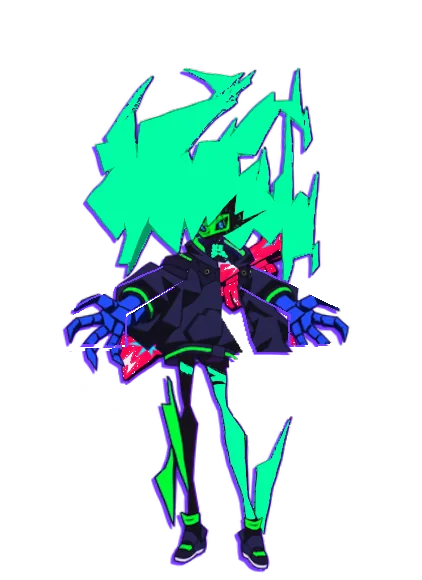
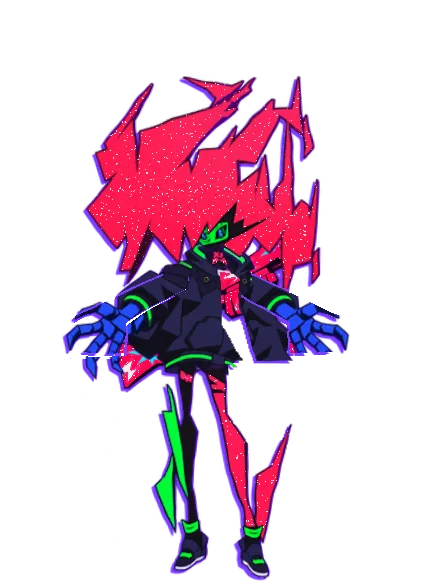
Vestuario: sus colores ya no se cambian (sin pestaña Colores)
La melena y la máscara de Capri se quedan siempre con sus colores. El vestuario queda en tres
pestañas (Conjuntos, Accesorios, Efectos); las fotos del desfile en Ajustes y las notas de los 5
idiomas ya no mencionan colores.

Changed region(s): [[0.1232, 0.0931, 0.8318, 0.9931]]

diff --git a/app/src/main/assets/android/wardrobe.js b/app/src/main/assets/android/wardrobe.js
@@ -1,7 +1,7 @@
 // Her wardrobe: what you put on her. Outfits (a whole drawing of her in other clothes, in the same
 // pose, so she moves in them as she does in her own), things on top (a crown, cat ears, glasses, a
-// halo…), the colors of her mane and her mask, an aura, how see-through she is. Easy to use: one
-// sheet, four tabs, a tap puts it on her and a second tap takes it off. Opened from her quick menu
+// halo…), an aura, how see-through she is. Her own colors (her mane, her mask) are hers: they
+// don't change. Easy to use: one sheet, three tabs, a tap puts it on her and a second tap takes it off. Opened from her quick menu
 // (holding her) and from her menu.
 //
 // It all goes into her picture itself (the texture her shader draws, capri-full.png's 240x420), so
@@ -106,16 +106,6 @@ const PLACE = {
   sword: { at: [118, 196], w: 150, behind: true }, shotgun: { at: [118, 196], w: 150, behind: true },
 };
 
-// her mane's and her mask's colors: a hue (0..1), or a gray
-const MANES = [
-  ['default', null, '#fc0346'], ['violet', 0.76, '#8a3cff'], ['blue', 0.62, '#2a5bff'], ['cyan', 0.5, '#00e5ff'],
-  ['gold', 0.12, '#ffc21a'], ['green', 0.36, '#1fe36a'], ['silver', 'gray', '#d7d7e3'], ['shadow', 'dark', '#2a2236'],
-  // (Edgerunners: Rebecca's mint, Talia's pastel pink)
-  ['mint', 0.44, '#7df5c8'], ['pink', 0.84, '#ff4fc0'], // (her shader pulls any red toward her own: 0.84 ends up pink)
-];
-const MASKS = [
-  ['default', null, '#08f467'], ['cyan', 0.5, '#00e5ff'], ['violet', 0.76, '#8a3cff'], ['gold', 0.12, '#ffc21a'], ['white', 'gray', '#f2f2f7'], ['red', 0.98, '#ff1744'],
-];
 const AURAS = [['none', null], ['red', '#ff1744'], ['green', '#08f467'], ['cyan', '#00e5ff'], ['violet', '#8a3cff'], ['gold', '#ffc21a'], ['white', '#ffffff'], ['sandevistan', 'trail']];
 // the Sandevistan's afterimages (Edgerunners): copies of her trailing behind, green to violet
 const TRAIL = (dir) => [['#08f467', 0.55], ['#00e5ff', 0.4], ['#8a3cff', 0.28]].map(([c, a], i) => `drop-shadow(${-dir * 7 * (i + 1)}px 0 0 ${c}${Math.round(a * 255).toString(16).padStart(2, '0')})`).join(' ');
@@ -284,45 +274,6 @@ function loadImage(src) {
   });
 }
 
-const rgb2hsv = (r, g, b) => {
-  const max = Math.max(r, g, b), min = Math.min(r, g, b), d = max - min;
-  let h = 0;
-  if (d) h = max === r ? ((g - b) / d) % 6 : max === g ? (b - r) / d + 2 : (r - g) / d + 4;
-  return [(h / 6 + 1) % 1, max ? d / max : 0, max];
-};
-const hsv2rgb = (h, s, v) => {
-  const f = (n) => {
-    const k = (n + h * 6) % 6;
-    return v - v * s * Math.max(0, Math.min(k, 4 - k, 1));
-  };
-  return [f(5), f(3), f(1)];
-};
-// her mane (crimson to red) and her mask (green) to other colors, already as bright as her shader
-// makes her red and her green (it only brightens those two)
-function recolor(g, w, h, mane, mask) {
-  if (mane == null && mask == null) return;
-  const img = g.getImageData(0, 0, w, h);
-  const d = img.data;
-  for (let i = 0; i < d.length; i += 4) {
-    if (d[i + 3] < 8) continue;
-    const [hu, s, v] = rgb2hsv(d[i] / 255, d[i + 1] / 255, d[i + 2] / 255);
-    if (v < 0.1 || s < 0.06) continue;
-    const hx = hu < 0.5 ? hu + 1 : hu;
-    const isRed = hx > 0.78 && hx < 1.1;
-    const isGreen = hu > 0.22 && hu < 0.52 && s > 0.15;
-    const to = isRed ? mane : isGreen ? mask : undefined;
-    if (to == null) continue;
-    let out;
-    if (to === 'gray') out = hsv2rgb(0, 0, Math.min(1, v * 1.6 + 0.15));
-    else if (to === 'dark') out = hsv2rgb(0.75, 0.35, Math.min(1, v * 0.55 + 0.05));
-    else out = hsv2rgb(to, Math.max(s, 0.86), Math.min(1, v * 1.5 + 0.1));
-    d[i] = out[0] * 255;
-    d[i + 1] = out[1] * 255;
-    d[i + 2] = out[2] * 255;
-  }
-  g.putImageData(img, 0, 0);
-}
-
 export function wardrobe({ cfg, setConfig, onToggle }) {
   const dev = window.dev;
   const capri = dev?.capri;
@@ -331,7 +282,7 @@ export function wardrobe({ cfg, setConfig, onToggle }) {
   const have = {}; // drawings that are in: { 'outfit-jinete': Image, 'acc-crown': Image }
   const lang = () => (WORDS[dev.brain?.lang] ? dev.brain.lang : 'en');
   const t = () => WORDS[lang()];
-  const look = () => ({ outfit: 'default', things: [], mane: 'default', mask: 'default', aura: 'none', alpha: 1, gamerAlpha: 0.55, ...(cfg().look || {}) });
+  const look = () => ({ outfit: 'default', things: [], aura: 'none', alpha: 1, gamerAlpha: 0.55, ...(cfg().look || {}), mane: 'default', mask: 'default' }); // (her colors don't change)
   const unlocked = () => new Set(cfg().unlocked || []);
 
   // which drawings are in (once)
@@ -354,7 +305,6 @@ export function wardrobe({ cfg, setConfig, onToggle }) {
       const g = c.getContext('2d', { willReadFrequently: true });
       g.drawImage(base, 0, 0, w, h);
       if (base !== original) g.clearRect(220, 0, w - 220, h); // (nothing of an outfit past her cut-out)
-      recolor(g, w, h, MANES.find(([id]) => id === l.mane)?.[1] ?? null, MASKS.find(([id]) => id === l.mask)?.[1] ?? null);
       // behind her face first (veil), then the rest
       const order = ['veil', ...ACCESSORIES.map(([id]) => id).filter((id) => id !== 'veil')];
       for (const id of order) {
@@ -496,7 +446,7 @@ export function wardrobe({ cfg, setConfig, onToggle }) {
 
     const tabs = document.createElement('nav');
     tabs.className = 'wardrobe__tabs';
-    for (const [id, label] of [['outfits', w.outfits], ['things', w.things], ['colors', w.colors], ['effects', w.effects]]) {
+    for (const [id, label] of [['outfits', w.outfits], ['things', w.things], ['effects', w.effects]]) {
       const b = document.createElement('button');
       b.type = 'button';
       b.className = 'wardrobe__tab';
@@ -578,11 +528,6 @@ export function wardrobe({ cfg, setConfig, onToggle }) {
           click: () => { toggleThing(id); render(); },
         }));
       }
-    } else if (tab === 'colors') {
-      const g1 = grid(w.mane);
-      for (const [id, , swatch] of MANES) g1.append(tile({ label: '', on: l.mane === id, swatch, click: () => { set({ mane: id }); render(); } }));
-      const g2 = grid(w.mask);
-      for (const [id, , swatch] of MASKS) g2.append(tile({ label: '', on: l.mask === id, swatch, click: () => { set({ mask: id }); render(); } }));
     } else {
       const g1 = grid(w.aura);
       for (const [id, color] of AURAS) {
@@ -597,7 +542,7 @@ export function wardrobe({ cfg, setConfig, onToggle }) {
       reset.type = 'button';
       reset.className = 'wardrobe__reset';
       reset.textContent = w.reset;
-      reset.addEventListener('click', () => { set({ outfit: 'default', things: [], mane: 'default', mask: 'default', aura: 'none', alpha: 1 }); render(); });
+      reset.addEventListener('click', () => { set({ outfit: 'default', things: [], aura: 'none', alpha: 1 }); render(); });
       body.append(reset);
     }
     el.append(body);
@@ -646,7 +591,7 @@ export function wardrobe({ cfg, setConfig, onToggle }) {
 
   // what you put on her last time (nothing to redo when she's as she is)
   const l0 = look();
-  if (l0.outfit !== 'default' || l0.things.length || l0.mane !== 'default' || l0.mask !== 'default') apply();
+  if (l0.outfit !== 'default' || l0.things.length) apply();
   else style();
   return {
     open, close, apply, style,
@@ -660,19 +605,8 @@ export function wardrobe({ cfg, setConfig, onToggle }) {
     wear(patch) { set(patch); },
     look,
     has: (id) => Boolean(have[id]),
-    // a drawing of her (poses.js) in her mane's and her mask's colors: a canvas, or null as she is
-    paint(img) {
-      const l = look();
-      const mane = MANES.find(([id]) => id === l.mane)?.[1] ?? null, mask = MASKS.find(([id]) => id === l.mask)?.[1] ?? null;
-      if (mane == null && mask == null) return null;
-      const c = document.createElement('canvas');
-      c.width = img.naturalWidth;
-      c.height = img.naturalHeight;
-      const g = c.getContext('2d', { willReadFrequently: true });
-      g.drawImage(img, 0, 0);
-      recolor(g, c.width, c.height, mane, mask);
-      return c;
-    },
+    // a drawing of her (poses.js) as she is: her colors are her own
+    paint: () => null,
     ready: () => probing,
     FACES,
   };

diff --git a/app/src/main/assets/android/poses.js b/app/src/main/assets/android/poses.js
@@ -82,7 +82,7 @@ export function poses({ cfg, wardrobe }) {
     Object.assign(el.style, { left: `${x}px`, top: `${y}px`, width: `${w}px`, height: `${h}px`, transform: flip ? 'scaleX(-1)' : '' });
   }
 
-  // her colors (a recolored mane or mask), her aura and how see-through she is, as on her sprite
+  // her aura and how see-through she is, as on her sprite
   function dress(el, img) {
     const sprite = document.getElementById('sprite');
     el.style.filter = sprite?.style.filter || '';

diff --git a/app/src/main/assets/android/android.css b/app/src/main/assets/android/android.css
@@ -556,7 +556,7 @@ body.is-dressing .fx { z-index: 41; }
 
 .wardrobe__tabs {
   display: grid;
-  grid-template-columns: repeat(4, 1fr);
+  grid-template-columns: repeat(3, 1fr);
   border-top: 1px solid var(--line);
   border-bottom: 1px solid var(--line);
 }

diff --git a/changelog/ru.md b/changelog/ru.md
@@ -7,14 +7,13 @@
 - **Её гардероб:** новая кнопка *Наряды* в быстром меню (а ещё *Настройки → Гардероб* или скажи «Капри, переоденься»).
   12 полных нарядов: жокей Запада, школьная форма, пилот меха, охотница на демонов, ниндзя, нетраннер, жёлтая куртка,
   готика, юката, пижама, ведьма и Рождество. 25 аксессуаров, которые можно сочетать (корона, кошачьи ушки,
-  рожки, нимб, ковбойская шляпа, новогодняя шапка, наушники, очки, визор, шарф, катана, геймпад, шарик-сердце…), цвет
-  её волос и маски, аура и прозрачность. Пока ты её одеваешь, она встаёт на панель, и каждое
+  рожки, нимб, ковбойская шляпа, новогодняя шапка, наушники, очки, визор, шарф, катана, геймпад, шарик-сердце…), аура и прозрачность. Пока ты её одеваешь, она встаёт на панель, и каждое
   изменение видно сразу; она двигается во всём этом, и всё сохраняется. В *Настройках* приложения есть его
   презентация с кнопкой, чтобы открыть.
 - **Cyberpunk: Edgerunners:** Капри — героиня второго сезона, поэтому в гардеробе есть раздел сериала: наряды по
   мотивам обоих сезонов (Дэвид, Люси, Ребекка, Мэйн, Дорио, Киви, Пилар, Фалько, Фарадей, Адам Смэшер, Глория, Саша,
   Д., Талия Ян, Кингсли, Роман Каракс, Авида и Кёко), аксессуары из сериала (крестик Дэвида, маска Киви, мононить
-  Люси, рюкзак Романа), мятный и розовый цвет волос и эффект **Сандевистан**: зелёные, голубые и фиолетовые
+  Люси, рюкзак Романа) и эффект **Сандевистан**: зелёные, голубые и фиолетовые
   остаточные образы позади неё.
 - **Удобнее режим геймера:** когда ты его включаешь, она ложится на живот поверх экрана и болтает ногами, глядя, как
   ты играешь, а ещё её можно сделать полупрозрачной только на время игры (*Гардероб → Эффекты*). Коснись её — и она

diff --git a/changelog/fr.md b/changelog/fr.md
@@ -8,15 +8,15 @@ Le même que CHANGELOG.md (en espagnol, l’original), en français : l’appli 
   disant « Capri, habille-toi »). 12 tenues complètes : jockey de l’Ouest, uniforme scolaire, pilote de mecha,
   chasseuse de démons, ninja, netrunner, veste jaune, gothique, yukata, pyjama, sorcière et Noël. 25
   accessoires à combiner (couronne, oreilles de chat, cornes, auréole, chapeau de cowboy, bonnet de Noël, casque,
-  lunettes, visière, écharpe, katana, manette, ballon cœur…), la couleur de ses cheveux et de son masque, une aura et
+  lunettes, visière, écharpe, katana, manette, ballon cœur…), une aura et
   sa transparence. Pendant que tu l’habilles, elle monte sur le panneau pour que tu voies chaque
   changement sur elle ; elle bouge avec tout ça et c’est enregistré. Les *Réglages* de l’app la présentent, avec un
   bouton pour l’ouvrir.
 - **Cyberpunk: Edgerunners :** Capri vient de la deuxième saison, alors la garde-robe a sa section de la série, avec
   des tenues inspirées des deux saisons (David, Lucy, Rebecca, Maine, Dorio, Kiwi, Pilar, Falco, Faraday, Adam
   Smasher, Gloria, Sasha, D., Talia Yang, Kingsley, Roman Carax, Avida et Kyoko), des accessoires de la série (la
-  croix de David, le masque de Kiwi, le monofil de Lucy, le sac de Roman), des couleurs de crinière menthe et
-  rose et l’effet **Sandevistan** : des images rémanentes vertes, cyan et violettes derrière elle.
+  croix de David, le masque de Kiwi, le monofil de Lucy, le sac de Roman) et
+  l’effet **Sandevistan** : des images rémanentes vertes, cyan et violettes derrière elle.
 - **Un mode gamer plus confortable :** quand tu l’actives, elle s’allonge sur le ventre en haut de ton écran et bat
   des jambes en te regardant jouer, et tu peux la rendre semi-transparente seulement pendant que tu joues (*Garde-robe
   → Effets*). Touche-la et elle se relève.

diff --git a/changelog/en.md b/changelog/en.md
@@ -7,13 +7,12 @@ The same as CHANGELOG.md (Spanish, the original), in English: the app shows it w
 - **Her wardrobe:** a new *Dress her* button in the quick menu (also in *Settings → Wardrobe* or by saying “Capri, get
   dressed”). 12 full outfits: Western jockey, school uniform, mecha pilot, demon hunter, ninja, netrunner, yellow
   jacket, gothic, yukata, pajamas, witch and Christmas. 25 accessories to mix (crown, cat ears, horns, halo,
-  cowboy hat, Santa hat, headphones, glasses, visor, scarf, katana, game controller, heart balloon…), the color of her
-  hair and her mask, an aura and how see-through she is. While you dress her she climbs on top of the panel so you see every change on
+  cowboy hat, Santa hat, headphones, glasses, visor, scarf, katana, game controller, heart balloon…), an aura and how see-through she is. While you dress her she climbs on top of the panel so you see every change on
   her, she moves with all of it on and it stays saved. The app’s *Settings* show it off, with a button to open it.
 - **Cyberpunk: Edgerunners:** Capri is from the second season, so the wardrobe has a section for the series, with
   outfits inspired by both seasons (David, Lucy, Rebecca, Maine, Dorio, Kiwi, Pilar, Falco, Faraday, Adam Smasher,
   Gloria, Sasha, D., Talia Yang, Kingsley, Roman Carax, Avida and Kyoko), accessories from the series (David’s cross,
-  Kiwi’s jaw mask, Lucy’s monowire, Roman’s backpack), mint and pink mane colors and the **Sandevistan**
+  Kiwi’s jaw mask, Lucy’s monowire, Roman’s backpack) and the **Sandevistan**
   effect: green, cyan and violet afterimages trailing behind her.
 - **A comfier gamer mode:** when you turn it on she lies on her belly on top of your screen, kicking her legs while
   she watches you play, and you can make her see-through only while you play (*Wardrobe → Effects*). Tap her and she

diff --git a/CHANGELOG.md b/CHANGELOG.md
@@ -9,13 +9,13 @@ Cada versión, lo nuevo primero. El apartado de cada versión es el texto que se
   vístete»). 12 conjuntos completos: jinete del Oeste, uniforme escolar, piloto de mecha, cazadora de demonios, ninja,
   netrunner, chaqueta amarilla, gótica, yukata, pijama, bruja y Navidad. 25 accesorios para combinar (corona,
   orejas de gato, cuernos, aureola, sombrero vaquero, gorro navideño, audífonos, lentes, visor, bufanda, katana,
-  control de videojuegos, globo de corazón…), el color de su cabello y de su máscara, un aura y qué tan transparente
+  control de videojuegos, globo de corazón…), un aura y qué tan transparente
   es. Mientras la vistes se sube encima del panel para que veas cada cambio en ella, se mueve con todo
   puesto y se queda guardado. En *Ajustes* de la app tiene su presentación, con un botón para abrirlo.
 - **Cyberpunk: Edgerunners:** Capri es de la segunda temporada, así que el vestuario tiene su sección de la serie, con
   conjuntos inspirados en las dos temporadas (David, Lucy, Rebecca, Maine, Dorio, Kiwi, Pilar, Falco, Faraday, Adam
   Smasher, Gloria, Sasha, D., Talia Yang, Kingsley, Roman Carax, Avida y Kyoko), accesorios de la serie (la cruz de
-  David, la máscara de Kiwi, el monohilo de Lucy, la mochila de Roman), colores de melena menta y rosa y el
+  David, la máscara de Kiwi, el monohilo de Lucy, la mochila de Roman) y el
   efecto **Sandevistan**: estelas verdes, cian y violetas detrás de ella.
 - **Modo gamer más cómodo:** al activarlo se acuesta boca abajo arriba de tu pantalla, pataleando mientras te ve
   jugar, y puedes hacerla semitransparente solo mientras juegas (*Vestuario → Efectos*). Tócala y se levanta.

diff --git a/changelog/pt.md b/changelog/pt.md
@@ -8,13 +8,13 @@ O mesmo que o CHANGELOG.md (em espanhol, o original), em português: o app mostr
   se veste”). 12 conjuntos completos: jóquei do Oeste, uniforme escolar, piloto de mecha, caçadora de demônios, ninja,
   netrunner, jaqueta amarela, gótica, yukata, pijama, bruxa e Natal. 25 acessórios pra combinar (coroa,
   orelhas de gato, chifres, auréola, chapéu de caubói, gorro de Natal, fones, óculos, viseira, cachecol, katana,
-  controle, balão de coração…), a cor do cabelo e da máscara, uma aura e o quanto ela é transparente. Enquanto você a
+  controle, balão de coração…), uma aura e o quanto ela é transparente. Enquanto você a
   veste, ela sobe em cima do painel pra você ver cada mudança nela; ela se mexe com tudo isso e fica salvo. Os *Ajustes*
   do app mostram o guarda-roupa, com um botão pra abrir.
 - **Cyberpunk: Edgerunners:** a Capri é da segunda temporada, então o guarda-roupa tem uma seção da série, com
   conjuntos inspirados nas duas temporadas (David, Lucy, Rebecca, Maine, Dorio, Kiwi, Pilar, Falco, Faraday, Adam
   Smasher, Gloria, Sasha, D., Talia Yang, Kingsley, Roman Carax, Avida e Kyoko), acessórios da série (a cruz do David,
-  a máscara da Kiwi, o monofio da Lucy, a mochila do Roman), cores de cabelo menta e rosa e o efeito
+  a máscara da Kiwi, o monofio da Lucy, a mochila do Roman) e o efeito
   **Sandevistan**: rastros verdes, ciano e violeta atrás dela.
 - **Modo gamer mais confortável:** ao ativar, ela deita de bruços em cima da sua tela, balançando as pernas enquanto
   te vê jogar, e você pode deixá-la semitransparente só enquanto joga (*Guarda-roupa → Efeitos*). Toque nela e ela
